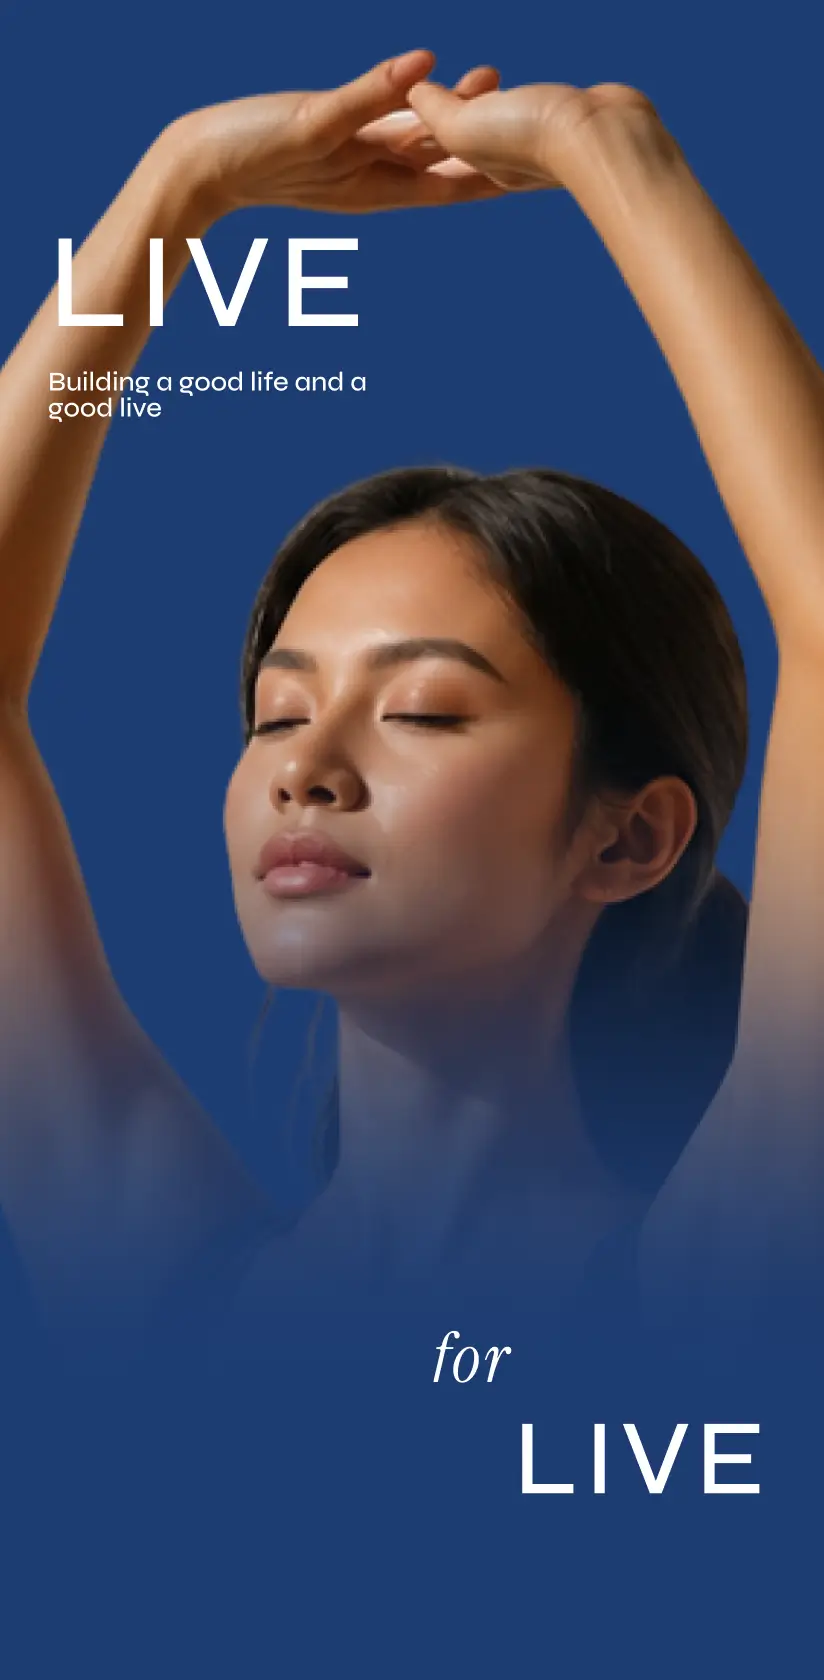
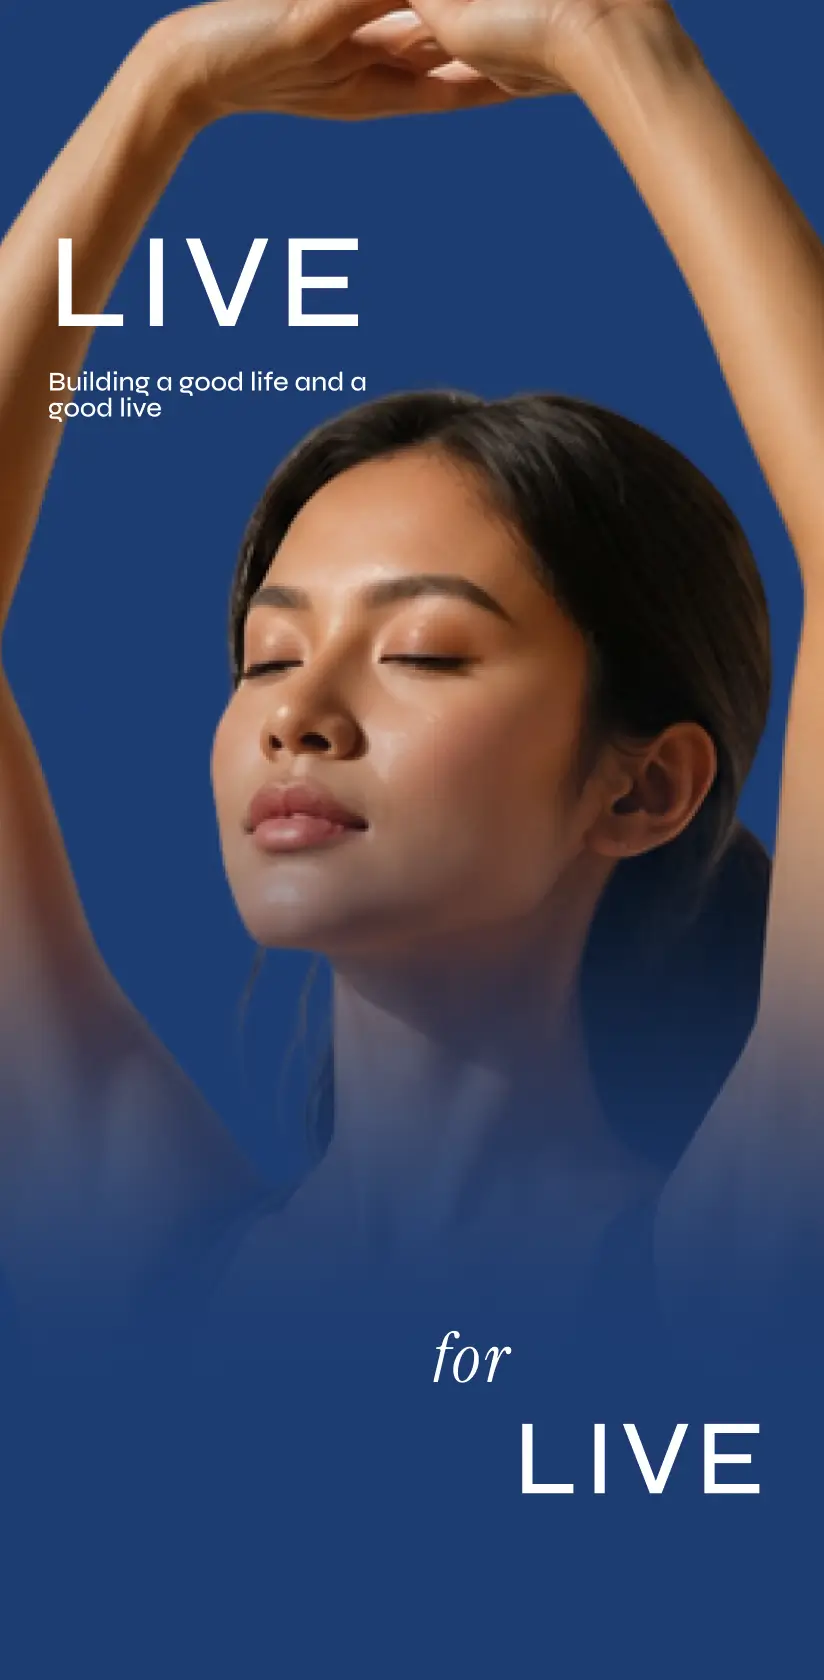
update assets

diff --git a/index.html b/index.html
@@ -144,6 +144,9 @@
     <img src="/assets/images/circle/circle-potrait-6.webp" alt="" class="power-circle-mobile">
     <img src="/assets/images/circle/circle-potrait-5.webp" alt="" class="power-circle-mobile">
     <img src="/assets/images/circle/circle-potrait-4.webp" alt="" class="power-circle-mobile">
+    <img src="/assets/images/circle/circle-potrait-3.webp" alt="" class="power-circle-mobile">
+    <img src="/assets/images/circle/circle-potrait-2.webp" alt="" class="power-circle-mobile">
+    <img src="/assets/images/circle/circle-potrait-1.webp" alt="" class="power-circle-mobile">
   </div>
 
   <!-- Text -->
@@ -347,107 +350,6 @@
 </section>
 
 
-<!-- ═══════════════════════════════════════════════════════
-     TAKE A WALK ON THE WELLNESS SIDE  (testimonials)
-═══════════════════════════════════════════════════════ -->
-<section class="testimonial-section d-flex flex-column">
-
-  <!-- Header -->
-  <div class="testimonial-section__header d-flex justify-content-between align-items-end align-self-stretch">
-    <div class="testimonial-section__title-wrap">
-      <span class="testimonial-section__title">Take a walk on the </span>
-      <span class="testimonial-section__title--italic">wellness side</span>
-    </div>
-    <div class="testimonial-section__nav d-none d-md-flex align-items-center">
-      <button class="testimonial-nav-btn testimonial-nav-btn--prev" aria-label="Previous">
-        <svg xmlns="http://www.w3.org/2000/svg" width="24" height="24" viewBox="0 0 24 24" fill="none">
-          <path d="M15 18L9 12L15 6" stroke="white" stroke-width="1.5" stroke-linecap="round" stroke-linejoin="round"/>
-        </svg>
-      </button>
-      <button class="testimonial-nav-btn testimonial-nav-btn--next" aria-label="Next">
-        <svg xmlns="http://www.w3.org/2000/svg" width="24" height="24" viewBox="0 0 24 24" fill="none">
-          <path d="M9 18L15 12L9 6" stroke="white" stroke-width="1.5" stroke-linecap="round" stroke-linejoin="round"/>
-        </svg>
-      </button>
-    </div>
-  </div>
-
-  <!-- Swiper -->
-  <div class="swiper testimonial-swiper">
-    <div class="swiper-wrapper">
-
-      <div class="swiper-slide">
-        <div class="testimonial-card d-flex flex-column align-items-end">
-          <div class="testimonial-card__inner d-flex flex-column align-items-start align-self-stretch">
-            <p class="testimonial-card__quote">
-              “We bring the right people together to create high-awareness company events that resonate with your target audience. From conceptualization to execution, we ensure every activation reflects your brand’s mission with elegance and agility.”
-            </p>
-            <p class="testimonial-card__author">Marriott Bali (Bonvoy Club)</p>
-          </div>
-        </div>
-      </div>
-
-      <div class="swiper-slide">
-        <div class="testimonial-card d-flex flex-column align-items-end">
-          <div class="testimonial-card__inner d-flex flex-column align-items-start align-self-stretch">
-            <p class="testimonial-card__quote">
-              “We bring the right people together to create high-awareness company events that resonate with your target audience. From conceptualization to execution, we ensure every activation reflects your brand’s mission with elegance and agility.”
-            </p>
-            <p class="testimonial-card__author">Marriott Bali (Bonvoy Club)</p>
-          </div>
-        </div>
-      </div>
-
-      <div class="swiper-slide">
-        <div class="testimonial-card d-flex flex-column align-items-end">
-          <div class="testimonial-card__inner d-flex flex-column align-items-start align-self-stretch">
-            <p class="testimonial-card__quote">
-              “We bring the right people together to create high-awareness company events that resonate with your target audience. From conceptualization to execution, we ensure every activation reflects your brand’s mission with elegance and agility.”
-            </p>
-            <p class="testimonial-card__author">Marriott Bali (Bonvoy Club)</p>
-          </div>
-        </div>
-      </div>
-
-      <div class="swiper-slide">
-        <div class="testimonial-card d-flex flex-column align-items-end">
-          <div class="testimonial-card__inner d-flex flex-column align-items-start align-self-stretch">
-            <p class="testimonial-card__quote">
-              “We bring the right people together to create high-awareness company events that resonate with your target audience. From conceptualization to execution, we ensure every activation reflects your brand’s mission with elegance and agility.”
-            </p>
-            <p class="testimonial-card__author">Marriott Bali (Bonvoy Club)</p>
-          </div>
-        </div>
-      </div>
-
-      <div class="swiper-slide">
-        <div class="testimonial-card d-flex flex-column align-items-end">
-          <div class="testimonial-card__inner d-flex flex-column align-items-start align-self-stretch">
-            <p class="testimonial-card__quote">
-              “We bring the right people together to create high-awareness company events that resonate with your target audience. From conceptualization to execution, we ensure every activation reflects your brand’s mission with elegance and agility.”
-            </p>
-            <p class="testimonial-card__author">Marriott Bali (Bonvoy Club)</p>
-          </div>
-        </div>
-      </div>
-
-      <div class="swiper-slide">
-        <div class="testimonial-card d-flex flex-column align-items-end">
-          <div class="testimonial-card__inner d-flex flex-column align-items-start align-self-stretch">
-            <p class="testimonial-card__quote">
-              “We bring the right people together to create high-awareness company events that resonate with your target audience. From conceptualization to execution, we ensure every activation reflects your brand’s mission with elegance and agility.”
-            </p>
-            <p class="testimonial-card__author">Marriott Bali (Bonvoy Club)</p>
-          </div>
-        </div>
-      </div>
-
-    </div>
-  </div>
-
-</section>
-
-
 
 <!-- ═══════════════════════════════════════════════════════
      FOOTER
@@ -496,7 +398,7 @@
               <path d="M7.5 8.125C8.53553 8.125 9.375 7.28553 9.375 6.25C9.375 5.21447 8.53553 4.375 7.5 4.375C6.46447 4.375 5.625 5.21447 5.625 6.25C5.625 7.28553 6.46447 8.125 7.5 8.125Z" stroke="#FF8700" stroke-width="1.25" stroke-linecap="round" stroke-linejoin="round"/>
             </svg>
             <div class="box-address d-flex flex-column">
-              <span class="footer__contact-text">Plaza Sentral, 8th Floor Jl. Jend. Sudirman Kav. 47m, Jakarta Selatan 12930, Indonesia</span>
+              <span class="footer__contact-text">Plaza Sentral, 7th Floor Jl. Jend. Sudirman Kav. 47, Jakarta Selatan 12930, Indonesia</span>
             </div>
           </div>
 

diff --git a/contact.html b/contact.html
@@ -119,8 +119,8 @@
 
       <p class="contact__address">
         PT. Sasana Jiwa Keluarga<br><br>
-        Plaza Sentral, 8th Floor<br>
-        Jl. Jend. Sudirman Kav. 47m, Jakarta Selatan 12930, Indonesia
+        Plaza Sentral, 7th Floor<br>
+        Jl. Jend. Sudirman Kav. 47, Jakarta Selatan 12930, Indonesia
       </p>
 
       <div class="contact__links">
@@ -210,7 +210,7 @@
               <path d="M7.5 8.125C8.53553 8.125 9.375 7.28553 9.375 6.25C9.375 5.21447 8.53553 4.375 7.5 4.375C6.46447 4.375 5.625 5.21447 5.625 6.25C5.625 7.28553 6.46447 8.125 7.5 8.125Z" stroke="#FF8700" stroke-width="1.25" stroke-linecap="round" stroke-linejoin="round"/>
             </svg>
             <div class="box-address d-flex flex-column">
-              <span class="footer__contact-text">Plaza Sentral, 8th Floor Jl. Jend. Sudirman Kav. 47m, Jakarta Selatan 12930, Indonesia</span>
+              <span class="footer__contact-text">Plaza Sentral, 7th Floor Jl. Jend. Sudirman Kav. 47, Jakarta Selatan 12930, Indonesia</span>
             </div>
           </div>
 

diff --git a/about.html b/about.html
@@ -209,7 +209,7 @@
               <path d="M7.5 8.125C8.53553 8.125 9.375 7.28553 9.375 6.25C9.375 5.21447 8.53553 4.375 7.5 4.375C6.46447 4.375 5.625 5.21447 5.625 6.25C5.625 7.28553 6.46447 8.125 7.5 8.125Z" stroke="#FF8700" stroke-width="1.25" stroke-linecap="round" stroke-linejoin="round"/>
             </svg>
             <div class="box-address d-flex flex-column">
-              <span class="footer__contact-text">Plaza Sentral, 8th Floor Jl. Jend. Sudirman Kav. 47m, Jakarta Selatan 12930, Indonesia</span>
+              <span class="footer__contact-text">Plaza Sentral, 7th Floor Jl. Jend. Sudirman Kav. 47, Jakarta Selatan 12930, Indonesia</span>
             </div>
           </div>
 

diff --git a/events/current-event.html b/events/current-event.html
@@ -283,7 +283,7 @@
               <path d="M7.5 8.125C8.53553 8.125 9.375 7.28553 9.375 6.25C9.375 5.21447 8.53553 4.375 7.5 4.375C6.46447 4.375 5.625 5.21447 5.625 6.25C5.625 7.28553 6.46447 8.125 7.5 8.125Z" stroke="#FF8700" stroke-width="1.25" stroke-linecap="round" stroke-linejoin="round"/>
             </svg>
             <div class="box-address d-flex flex-column">
-              <span class="footer__contact-text">Plaza Sentral, 8th Floor Jl. Jend. Sudirman Kav. 47m, Jakarta Selatan 12930, Indonesia</span>
+              <span class="footer__contact-text">Plaza Sentral, 7th Floor Jl. Jend. Sudirman Kav. 47, Jakarta Selatan 12930, Indonesia</span>
             </div>
           </div>
 

diff --git a/events/list.html b/events/list.html
@@ -319,7 +319,7 @@
               <path d="M7.5 8.125C8.53553 8.125 9.375 7.28553 9.375 6.25C9.375 5.21447 8.53553 4.375 7.5 4.375C6.46447 4.375 5.625 5.21447 5.625 6.25C5.625 7.28553 6.46447 8.125 7.5 8.125Z" stroke="#FF8700" stroke-width="1.25" stroke-linecap="round" stroke-linejoin="round"/>
             </svg>
             <div class="box-address d-flex flex-column">
-              <span class="footer__contact-text">Plaza Sentral, 8th Floor Jl. Jend. Sudirman Kav. 47m, Jakarta Selatan 12930, Indonesia</span>
+              <span class="footer__contact-text">Plaza Sentral, 7th Floor Jl. Jend. Sudirman Kav. 47, Jakarta Selatan 12930, Indonesia</span>
             </div>
           </div>
 

diff --git a/events/past-event.html b/events/past-event.html
@@ -218,7 +218,7 @@
               <path d="M7.5 8.125C8.53553 8.125 9.375 7.28553 9.375 6.25C9.375 5.21447 8.53553 4.375 7.5 4.375C6.46447 4.375 5.625 5.21447 5.625 6.25C5.625 7.28553 6.46447 8.125 7.5 8.125Z" stroke="#FF8700" stroke-width="1.25" stroke-linecap="round" stroke-linejoin="round"/>
             </svg>
             <div class="box-address d-flex flex-column">
-              <span class="footer__contact-text">Plaza Sentral, 8th Floor Jl. Jend. Sudirman Kav. 47m, Jakarta Selatan 12930, Indonesia</span>
+              <span class="footer__contact-text">Plaza Sentral, 7th Floor Jl. Jend. Sudirman Kav. 47, Jakarta Selatan 12930, Indonesia</span>
             </div>
           </div>
 

diff --git a/services/equipment-rental.html b/services/equipment-rental.html
@@ -318,7 +318,7 @@
               <path d="M7.5 8.125C8.53553 8.125 9.375 7.28553 9.375 6.25C9.375 5.21447 8.53553 4.375 7.5 4.375C6.46447 4.375 5.625 5.21447 5.625 6.25C5.625 7.28553 6.46447 8.125 7.5 8.125Z" stroke="#FF8700" stroke-width="1.25" stroke-linecap="round" stroke-linejoin="round"/>
             </svg>
             <div class="box-address d-flex flex-column">
-              <span class="footer__contact-text">Plaza Sentral, 8th Floor Jl. Jend. Sudirman Kav. 47m, Jakarta Selatan 12930, Indonesia</span>
+              <span class="footer__contact-text">Plaza Sentral, 7th Floor Jl. Jend. Sudirman Kav. 47, Jakarta Selatan 12930, Indonesia</span>
             </div>
           </div>
 

diff --git a/services/event-management.html b/services/event-management.html
@@ -279,7 +279,7 @@
               <path d="M7.5 8.125C8.53553 8.125 9.375 7.28553 9.375 6.25C9.375 5.21447 8.53553 4.375 7.5 4.375C6.46447 4.375 5.625 5.21447 5.625 6.25C5.625 7.28553 6.46447 8.125 7.5 8.125Z" stroke="#FF8700" stroke-width="1.25" stroke-linecap="round" stroke-linejoin="round"/>
             </svg>
             <div class="box-address d-flex flex-column">
-              <span class="footer__contact-text">Plaza Sentral, 8th Floor Jl. Jend. Sudirman Kav. 47m, Jakarta Selatan 12930, Indonesia</span>
+              <span class="footer__contact-text">Plaza Sentral, 7th Floor Jl. Jend. Sudirman Kav. 47, Jakarta Selatan 12930, Indonesia</span>
             </div>
           </div>
 

diff --git a/services/timing-service-provider.html b/services/timing-service-provider.html
@@ -240,7 +240,7 @@
               <path d="M7.5 8.125C8.53553 8.125 9.375 7.28553 9.375 6.25C9.375 5.21447 8.53553 4.375 7.5 4.375C6.46447 4.375 5.625 5.21447 5.625 6.25C5.625 7.28553 6.46447 8.125 7.5 8.125Z" stroke="#FF8700" stroke-width="1.25" stroke-linecap="round" stroke-linejoin="round"/>
             </svg>
             <div class="box-address d-flex flex-column">
-              <span class="footer__contact-text">Plaza Sentral, 8th Floor Jl. Jend. Sudirman Kav. 47m, Jakarta Selatan 12930, Indonesia</span>
+              <span class="footer__contact-text">Plaza Sentral, 7th Floor Jl. Jend. Sudirman Kav. 47, Jakarta Selatan 12930, Indonesia</span>
             </div>
           </div>
 

diff --git a/src/css/style.css b/src/css/style.css
@@ -1582,8 +1582,10 @@ button:focus-visible {
 
   /* ─── Circles Row (Mobile) ───────────────────────────── */
   .power-section__circles-mobile {
-    gap: 28px;
+    gap: 16px;
     align-items: center;
+    justify-content: center;
+    flex-wrap: wrap;
     position: relative;
     z-index: 2;
   }
